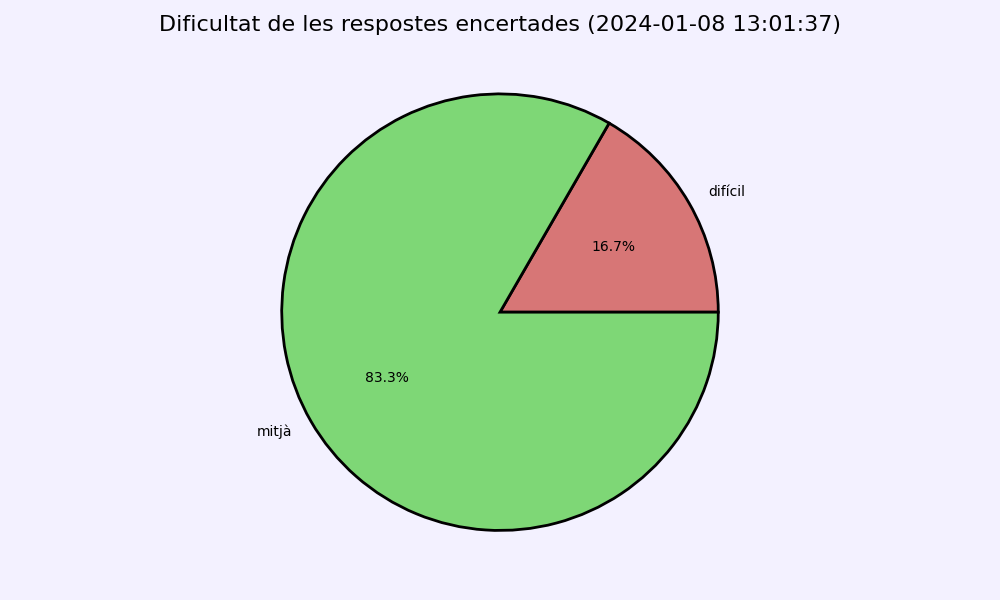
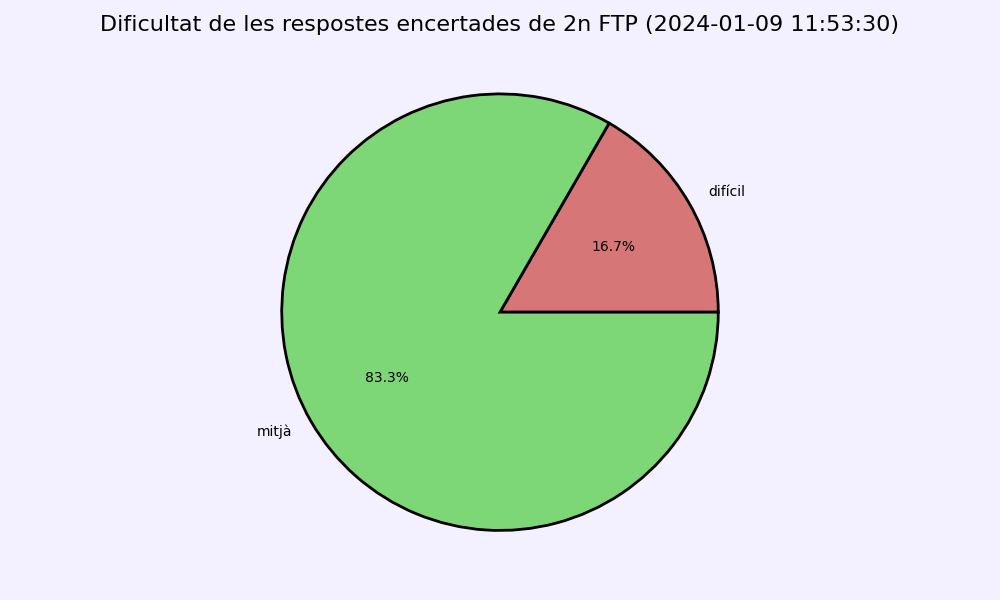
grafica de puntuaciones de resultados

Changed region(s): [[0.093, 0.0, 0.899, 0.06]]

diff --git a/backend/server.js b/backend/server.js
@@ -17,6 +17,7 @@ const {
   deleteClass,
   getClassByUserId,
   getUserIdByClassId,
+  getClassNameByClassId,
   joinClasse,
   getUserById,
   login,
@@ -174,12 +175,26 @@ app.post("/changePassword", async (req, res) => {
     });
 });
 
-//Recibir la imagen de la estadistica
+//Recibir la imagen de la estadistica dificultatRespostes
 app.get("/getImatgeEstadistiques/dificultatRespostes/:idClasse", async (req, res) => {
   res.header("Access-Control-Allow-Origin", "*");
   await ejecutarEstadisticas(req.params.idClasse)
     .then((data) => {
       res.sendFile(path.resolve("stats/dificultatRespostes.png"));
+      console.log(data);
+    })
+    .catch((err) => {
+      res.send(err);
+      console.log(err);
+    });
+});
+
+//Recibir la imagen de la estadistica puntsRespostes
+app.get("/getImatgeEstadistiques/puntsRespostes/:idClasse", async (req, res) => {
+  res.header("Access-Control-Allow-Origin", "*");
+  await ejecutarEstadisticas(req.params.idClasse)
+    .then((data) => {
+      res.sendFile(path.resolve("stats/puntsRespostes.png"));
       console.log(data);
     })
     .catch((err) => {
@@ -225,22 +240,28 @@ function ejecutarEstadisticas(idClasse) {
 
   createDirectory("stats");
   createFile("./stats/dificultatRespostes.png", "");
+  createFile("./stats/puntsRespostes.png", "");
 
   return new Promise( async (resolve, reject) => {
     let arrayUsuarios = [];
+    let nomClasse = "";
 
     await getUserIdByClassId(idClasse).then((data) => {
       arrayUsuarios = idClasse ? data.map((item) => item.idUsu) : [];
     });
 
-    let pythonProcess = spawn("python3", ["./stats.py", JSON.stringify(arrayUsuarios)]);
+    await getClassNameByClassId(idClasse).then((data) => {
+      nomClasse = data[0].nomClasse;
+    });
+
+    let pythonProcess = spawn("python3", ["./stats.py", JSON.stringify(arrayUsuarios), nomClasse]);
 
     const handleData = (data) => {
       resolve(data.toString());
     };
 
     const handleError = () => {
-      pythonProcess = spawn("python", ["./stats.py", JSON.stringify(arrayUsuarios)]);
+      pythonProcess = spawn("python", ["./stats.py", JSON.stringify(arrayUsuarios), nomClasse]);
       pythonProcess.stdout.on("data", handleData);
     };
 

diff --git a/backend/endpointFuncions.js b/backend/endpointFuncions.js
@@ -106,6 +106,20 @@ function getUserIdByClassId(idClass) {
   });
 }
 
+function getClassNameByClassId(idClass) {
+  return new Promise((resolve, reject) => {
+    const sql = "SELECT nomClasse FROM CLASSE WHERE idClasse = ?";
+    const VALUES = [idClass];
+    conn.query(sql, VALUES, (err, result) => {
+      if (err) {
+        reject({ err: err });
+      } else {
+        resolve(result);
+      }
+    });
+  });
+}
+
 function joinClasse(idClass, idUsu) {
   return new Promise((resolve, reject) => {
     const sql = "INSERT INTO `PERTANY` (`idClasse`, `idUsu`) VALUES (?, ?);";
@@ -199,6 +213,7 @@ module.exports = {
   deleteClass,
   getClassByUserId,
   getUserIdByClassId,
+  getClassNameByClassId,
   joinClasse,
   getUserById,
   login,

diff --git a/backend/sockets.js b/backend/sockets.js
@@ -21,7 +21,6 @@ function sendPartidas(owner, id, io) {
   const partidasSala = partidas.filter((partida) => partida.idSala == id);
 
   if (partidasSala) {
-    console.log(partidasSala);
     io.to(owner).emit("getPartidas", partidasSala);
     let sala = salas.filter((sala) => sala.id_sala == id);
     if (sala[0]) {

diff --git a/backend/stats.py b/backend/stats.py
@@ -7,13 +7,14 @@ from pymongo.server_api import ServerApi
 
 from datetime import datetime
 
+
 def establecer_conexion():
     uri = "mongodb+srv://a21marsalval_bd:ToniNoRobes2021@tr2.eatpoha.mongodb.net/?retryWrites=true&w=majority"
 
-    client = MongoClient(uri, server_api=ServerApi('1'))
+    client = MongoClient(uri, server_api=ServerApi("1"))
     # Send a ping to confirm a successful connection
     try:
-        client.mathbattle.command('ping')
+        client.mathbattle.command("ping")
     except Exception as e:
         print(e)
     return client
@@ -23,66 +24,120 @@ def obtener_respuestas_correctas_por_usuario_y_dificultad(cursor):
     print()
     pipeline = [
         {"$match": {"id_usuari": {"$in": json.loads(sys.argv[1])}}},
-        {"$group": {"_id": "$difficulty", "count": {"$sum": 1}}}
+        {"$group": {"_id": "$difficulty", "count": {"$sum": 1}}},
     ]
     return list(cursor.mathbattle.correctAnswers.aggregate(pipeline))
 
+
+def obtener_puntos_de_respuestas_correctas_por_usuario(cursor):
+    print()
+    pipeline = [
+        {"$match": {"id_usuari": {"$in": json.loads(sys.argv[1])}}},
+        {
+            "$group": {
+                "_id": "$id_usuari",
+                "puntos": {
+                    "$sum": {
+                        "$switch": {
+                            "branches": [
+                                {"case": {"$eq": ["$difficulty", "fàcil"]}, "then": 10},
+                                {"case": {"$eq": ["$difficulty", "mitjà"]}, "then": 15},
+                                {"case": {"$eq": ["$difficulty", "difícil"]}, "then": 20},
+                            ],
+                            "default": 0,
+                        }
+                    }
+                },
+            }
+        },
+    ]
+    return list(cursor.mathbattle.correctAnswers.aggregate(pipeline))
+
+
 def graficar_respuestas_correctas_por_dificultad(df, filename):
-    plt.figure(figsize=(10, 6), facecolor='#f3f1ff')  # Establecer el color de fondo de toda la figura
-    
+    plt.figure(
+        figsize=(10, 6), facecolor="#f3f1ff"
+    )  # Establecer el color de fondo de toda la figura
+
     # Crear un gráfico de barras horizontales con puntas redondas y color personalizado
-    plt.pie(df['count'], labels=df['_id'], autopct='%1.1f%%', colors=['#d77676', '#7ed776', '#768ed7'], wedgeprops={'edgecolor': 'black', 'linewidth': 2, 'linestyle': 'solid', 'antialiased': True})
-    
+    plt.pie(
+        df["count"],
+        labels=df["_id"],
+        autopct="%1.1f%%",
+        colors=["#d77676", "#7ed776", "#768ed7"],
+        wedgeprops={
+            "edgecolor": "black",
+            "linewidth": 2,
+            "linestyle": "solid",
+            "antialiased": True,
+        },
+    )
+
     # Obtener la fecha actual
-    fecha_actual = datetime.now().strftime('%Y-%m-%d %H:%M:%S')
-   
-   
+    fecha_actual = datetime.now().strftime("%Y-%m-%d %H:%M:%S")
+
     # Utilizar la fecha actual en el título del gráfico
-    plt.title(f'Dificultat de les respostes encertades ({fecha_actual})', fontsize=16)
-   
+    plt.title(
+        f"Dificultat de les respostes encertades de {sys.argv[2]} ({fecha_actual})",
+        fontsize=16,
+    )
+
     plt.yticks(fontsize=12)
-    
+
     # Eliminar la cuadrícula horizontal
-    plt.grid(axis='x', linestyle='--', alpha=0.7)
-    
+    plt.grid(axis="x", linestyle="--", alpha=0.7)
+
     # Guardar la figura en un archivo
     plt.tight_layout()
     plt.savefig(filename)
     plt.close()
-    
+
+
+def graficar_puntos_por_usuario(df, filename):
+    plt.figure(figsize=(10, 6))  # Establecer el tamaño de la figura
+
+    # Crear un gráfico de barras con los puntos de cada usuario
+    plt.bar(df["_id"], df["puntos"])
+
     # Obtener la fecha actual
-    fecha_actual = datetime.now().strftime('%Y-%m-%d %H:%M:%S')
+    fecha_actual = datetime.now().strftime("%Y-%m-%d %H:%M:%S")
 
     # Utilizar la fecha actual en el título del gráfico
-    plt.title(f'Temps Preparacio ({fecha_actual})', fontsize=16)
+    plt.title(f"Puntos totales de cada usuario ({fecha_actual})", fontsize=16)
 
-    plt.yticks(df['data_comanda'], fontsize=12)  # Utiliza las horas como etiquetas en el eje y
-    plt.xlabel('Total de Segons', fontsize=14)
-    plt.ylabel('Estat Comanda', fontsize=14)
+    plt.xlabel("id_usuari", fontsize=12)
+    plt.ylabel("Puntos totales", fontsize=12)
 
-    # Eliminar la cuadrícula horizontal
-    plt.grid(axis='x', linestyle='--', alpha=0.7)
-
-    # Guardar la figura en un archivo (reemplaza 'nombre_del_archivo' con el nombre que desees)
+    # Guardar la figura en un archivo
     plt.tight_layout()
     plt.savefig(filename)
     plt.close()
 
-def CantidaRestante():
+
+def dificultatRespostes():
     conexion = establecer_conexion()
     resultados = obtener_respuestas_correctas_por_usuario_y_dificultad(conexion)
-    # print(resultados)
+    print(resultados)
 
-    df = pd.DataFrame(resultados, columns=['_id', 'count'])
-    df = df.sort_values('_id')
-    filename = './stats/dificultatRespostes.png'
-    graficar_respuestas_correctas_por_dificultad(df,filename)
+    df = pd.DataFrame(resultados, columns=["_id", "count"])
+    df = df.sort_values("_id")
+    filename = "./stats/dificultatRespostes.png"
+    graficar_respuestas_correctas_por_dificultad(df, filename)
+
+
+def puntsRespostes():
+    conexion = establecer_conexion()
+    resultados = obtener_puntos_de_respuestas_correctas_por_usuario(conexion)
+
+    df = pd.DataFrame(resultados, columns=["_id", "puntos"])
+    df = df.sort_values("_id")
+    filename = "./stats/puntsRespostes.png"
+    graficar_puntos_por_usuario(df, filename)
+
 
 def main():
-    CantidaRestante()
-   
+    dificultatRespostes()
+    puntsRespostes()
+
+
 main()
-
-
-
-
